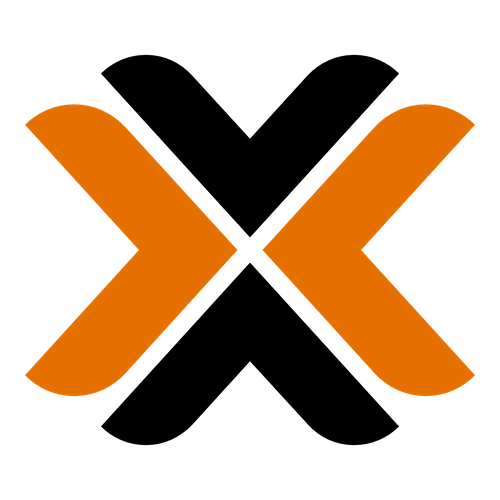
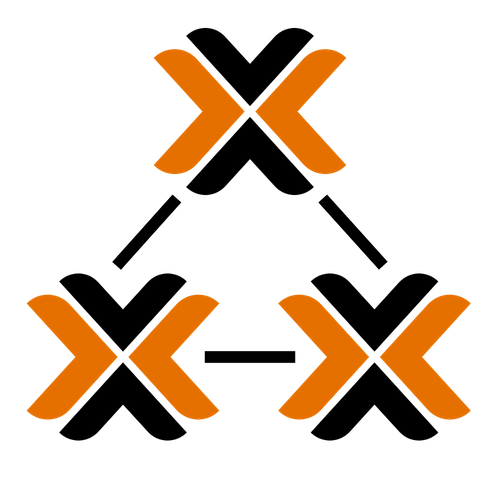
chore: prepare release v1.0.6 - certification fixes

diff --git a/com.proxmox.proxmoxve/RELEASE_NOTES.md b/com.proxmox.proxmoxve/RELEASE_NOTES.md
@@ -1,5 +1,10 @@
 # Release Notes
 
+## v1.0.6 - Certification Fixes
+- **App Store Improvements**:
+    - Updated app description to meet marketing guidelines.
+    - Updated driver icons to ensure uniqueness and clarity.
+
 ## v1.0.0 - Production Release
 
 ### 🚀 Major Improvements
